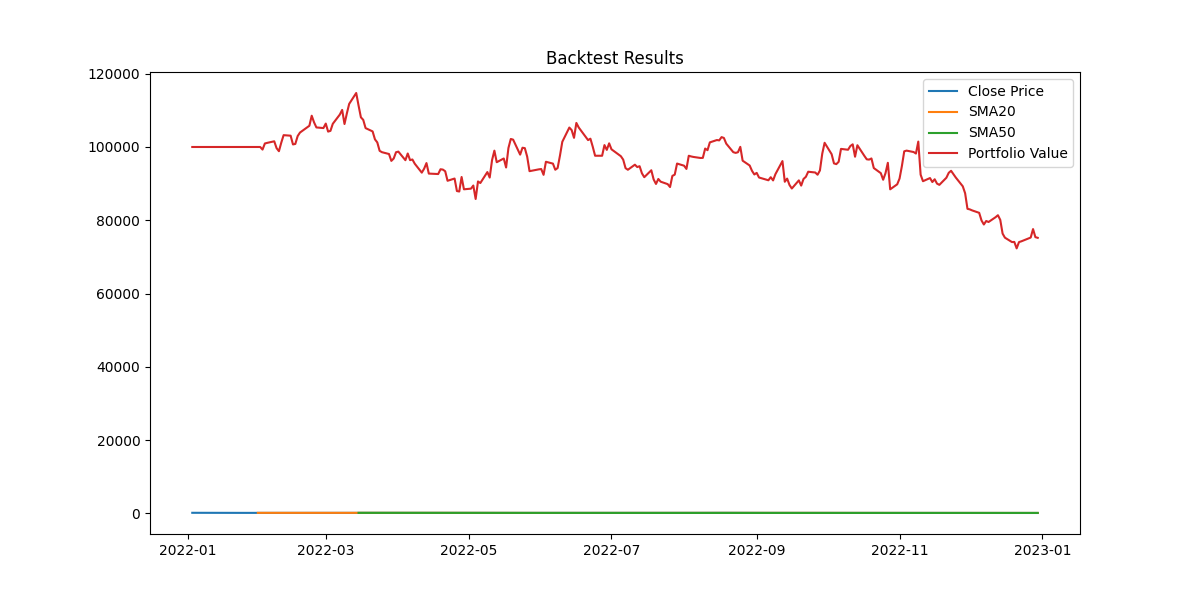
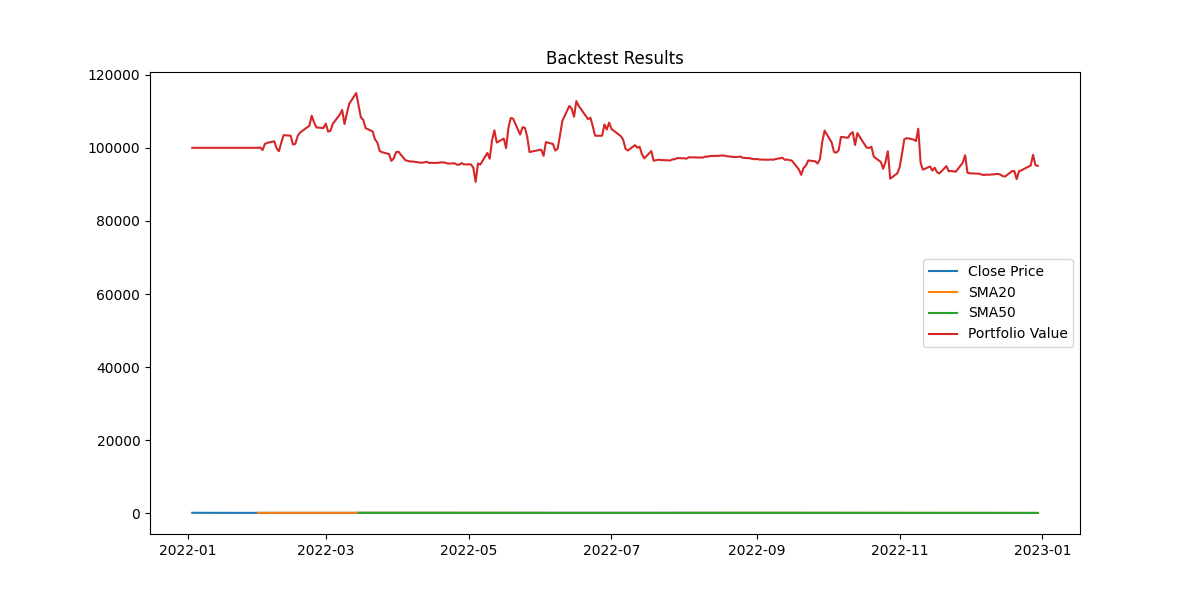
Working prototype

diff --git a/src/strategy.py b/src/strategy.py
@@ -1,7 +1,11 @@
 import numpy as np
 from data_manager import DataManager
 
-class MovingAverageStrategy:
+class BaseStrategy:
+    def generate_signals(self):
+        raise NotImplementedError
+
+class MovingAverageStrategy(BaseStrategy):
     def __init__(self, symbol="AAPL", start="2022-01-01", end="2023-01-01"):
         self.symbol = symbol
         self.start = start
@@ -10,10 +14,11 @@ class MovingAverageStrategy:
 
     def generate_signals(self):
         dm = DataManager(self.symbol, self.start, self.end)
-        self.data = dm.download_data().copy()
-        self.data = dm.add_moving_averages(short_window=20, long_window=50)
-        self.data["Signal"] = 0
-        self.data.iloc[20:, self.data.columns.get_loc("Signal")] = np.where(
-            self.data["SMA20"].iloc[20:] > self.data["SMA50"].iloc[20:], 1, -1
+        dm.download_data()
+        dm.add_moving_averages()
+        self.data = dm.data.copy()
+        self.data["signal"] = 0
+        self.data.iloc[20:, self.data.columns.get_loc("signal")] = np.where(
+            self.data["sma20"].iloc[20:] > self.data["sma50"].iloc[20:], 1, -1
         )
         return self.data

diff --git a/src/data_manager.py b/src/data_manager.py
@@ -9,11 +9,18 @@ class DataManager:
         self.data = None
 
     def download_data(self):
-        self.data = yf.download(self.symbol, start=self.start, end=self.end, auto_adjust=True)
+        self.data = yf.download(self.symbol, start=self.start, end=self.end, auto_adjust=False)
+        
+        if isinstance(self.data.columns, pd.MultiIndex):
+            self.data.columns = self.data.columns.get_level_values(0)
+
+        self.data.columns = [col.lower() for col in self.data.columns]
+
+        if "close" not in self.data.columns and "adj close" in self.data.columns:
+            self.data["close"] = self.data["adj close"]
         return self.data
 
-
     def add_moving_averages(self, short_window=20, long_window=50):
-        self.data["SMA20"] = self.data["Close"].rolling(short_window).mean()
-        self.data["SMA50"] = self.data["Close"].rolling(long_window).mean()
+        self.data["sma20"] = self.data["close"].rolling(short_window).mean()
+        self.data["sma50"] = self.data["close"].rolling(long_window).mean()
         return self.data

diff --git a/src/portfolio.py b/src/portfolio.py
@@ -1,13 +1,11 @@
-class Portfolio:
-    def __init__(self, data, initial_capital=10000):
-        self.data = data
-        self.initial_capital = initial_capital
-        self.positions = None
-        self.cash = None
-        self.portfolio_value = None
+import pandas as pd
 
-    def backtest(self):
-        self.data["Position"] = self.data["Signal"].shift(1)
-        self.data["Returns"] = self.data["Close"].pct_change() * self.data["Position"]
-        self.data["PortfolioValue"] = self.initial_capital * (1 + self.data["Returns"].fillna(0)).cumprod()
-        return self.data
+class Portfolio:
+    def __init__(self, initial_capital=100000):
+        self.initial_capital = initial_capital
+
+    def calculate(self, data, risk_manager):
+        data["position"] = data["signal"].apply(lambda x: risk_manager.apply_risk(x))
+        data["returns"] = data["close"].pct_change() * data["position"]
+        data["portfoliovalue"] = (1 + data["returns"].fillna(0)).cumprod() * self.initial_capital
+        return data

diff --git a/src/main.py b/src/main.py
@@ -1,23 +1,19 @@
 import pandas as pd
 from strategy import MovingAverageStrategy
-from backtest import Backtest
 from risk_manager import RiskManager
+from portfolio import Portfolio
+from backtest import Backtest
 
 def main():
     strategy = MovingAverageStrategy()
     data = strategy.generate_signals()
 
     rm = RiskManager(max_position=0.1)
-    data["Position"] = data["Signal"].apply(lambda x: rm.apply_risk(x))
-
-    data["Returns"] = data["Close"].pct_change() * data["Position"]
-    data["PortfolioValue"] = (1 + data["Returns"].fillna(0)).cumprod() * 100000
+    pf = Portfolio(initial_capital=100000)
+    data = pf.calculate(data, rm)
 
     print(data.tail())
-
-    bt = Backtest(data)
-    bt.plot_results()
+    Backtest(data).plot_results()
 
 if __name__ == "__main__":
     main()
-

diff --git a/src/backtest.py b/src/backtest.py
@@ -7,10 +7,10 @@ class Backtest:
 
     def plot_results(self):
         plt.figure(figsize=(12, 6))
-        plt.plot(self.data["Close"], label="Close Price")
-        plt.plot(self.data["SMA20"], label="SMA20")
-        plt.plot(self.data["SMA50"], label="SMA50")
-        plt.plot(self.data["PortfolioValue"], label="Portfolio Value")
+        plt.plot(self.data["close"], label="Close Price")
+        plt.plot(self.data["sma20"], label="SMA20")
+        plt.plot(self.data["sma50"], label="SMA50")
+        plt.plot(self.data["portfoliovalue"], label="Portfolio Value")
         plt.legend()
         plt.title("Backtest Results")
         tmp_file = "backtest_demo.png"
